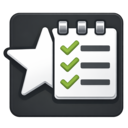
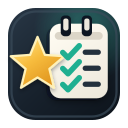
chore: rename extension and update description for clarity

diff --git a/chrome-extension/manifest.ts b/chrome-extension/manifest.ts
@@ -21,7 +21,7 @@ const packageJson = JSON.parse(readFileSync('./package.json', 'utf8'));
 const manifest = {
   manifest_version: 3,
   default_locale: 'en',
-  name: 'GitHub Starlist Extension',
+  name: 'Starlist for Git Repositories',
   browser_specific_settings: {
     gecko: {
       id: '7d2b2f2e-7b9d-4d13-9a22-5c4a9c8b9a1f',
@@ -29,7 +29,7 @@ const manifest = {
     },
   },
   version: packageJson.version,
-  description: 'Shows GitHub Stars list labels next to the Starred button',
+  description: 'Easily view starlist labels while using GitHub.',
   permissions: [],
   action: {
     default_popup: 'popup/index.html',

diff --git a/pages/popup/src/Popup.tsx b/pages/popup/src/Popup.tsx
@@ -2,7 +2,7 @@ import '@src/Popup.css';
 
 const Popup = () => (
   <div className="App">
-    <p className="App-text">Badges are shown automatically on the GitHub Stars page.</p>
+    <p className="App-text">Starlist labels are shown automatically while using GitHub Stars.</p>
   </div>
 );
 

diff --git a/README.md b/README.md
@@ -1,9 +1,10 @@
-# GitHub Starlist Extension
+# Starlist for Git Repositories
 
-![GitHub Starlist Extension](/assets/img.png)
+![Starlist for Git Repositories](/assets/img.png)
 
-GitHub Stars 페이지에서 각 리포지토리가 어떤 리스트에 포함되어 있는지
-`Starred` 버튼 왼쪽에 라벨로 표시해주는 크롬 확장 프로그램입니다.
+GitHub를 이용하면서 스타리스트를 쉽게 볼 수 있도록, Stars 페이지에서 각 리포지토리가
+어떤 리스트에 포함되어 있는지 `Starred` 버튼 왼쪽에 라벨로 표시해주는 크롬 확장
+프로그램입니다.
 
 ## 핵심 기능
 
@@ -39,4 +40,3 @@ Chrome에서 `chrome://extensions` → 개발자 모드 활성화 → `dist` 폴
 
 - GitHub의 DOM/HTML 구조 변경 시 파싱 로직이 깨질 수 있습니다.
 - 리스트 표시 여부는 `/lists` 응답의 `checked` 체크박스를 기준으로 판단합니다.
-